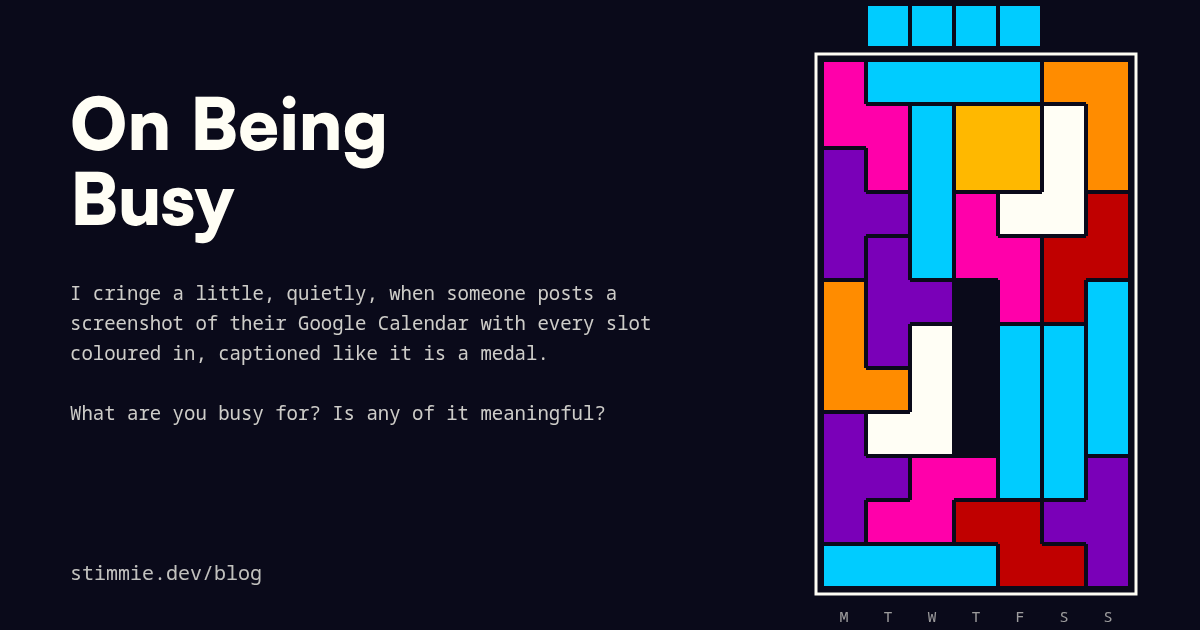
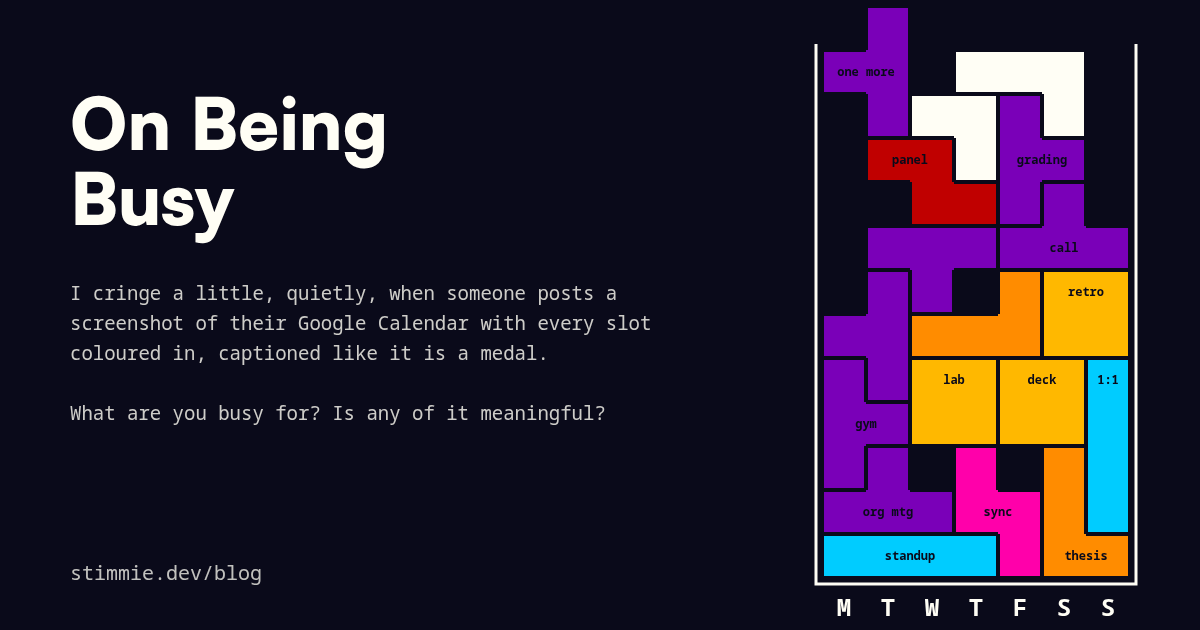
fix(blog): Tetris cover stacks like a real game, labelled pieces
Claude-Session: https://claude.ai/code/session_01SiFhgUcJUqx6MQk2GS2nYk

Changed region(s): [[0.6783, 0.0, 0.9558, 0.9952]]

diff --git a/src/app/blog/on-being-busy/page.js b/src/app/blog/on-being-busy/page.js
@@ -9,7 +9,7 @@ export const metadata = {
     description: "Being busy is a means to an end. So what is the end?",
     url: "https://stimmie.dev/blog/on-being-busy",
     type: "article",
-    images: [{ url: "/blog/on-being-busy/cover.png", width: 1200, height: 630, alt: "A week as a Tetris board, every piece locked in, one hole on Thursday afternoon that no piece can reach" }],
+    images: [{ url: "/blog/on-being-busy/cover.png", width: 1200, height: 630, alt: "A week as a Tetris board, pieces labelled standup, thesis, org mtg, stacked almost to the top with holes buried under them, one more piece falling" }],
   },
   twitter: { card: "summary_large_image", images: ["/blog/on-being-busy/cover.png"] },
 };
